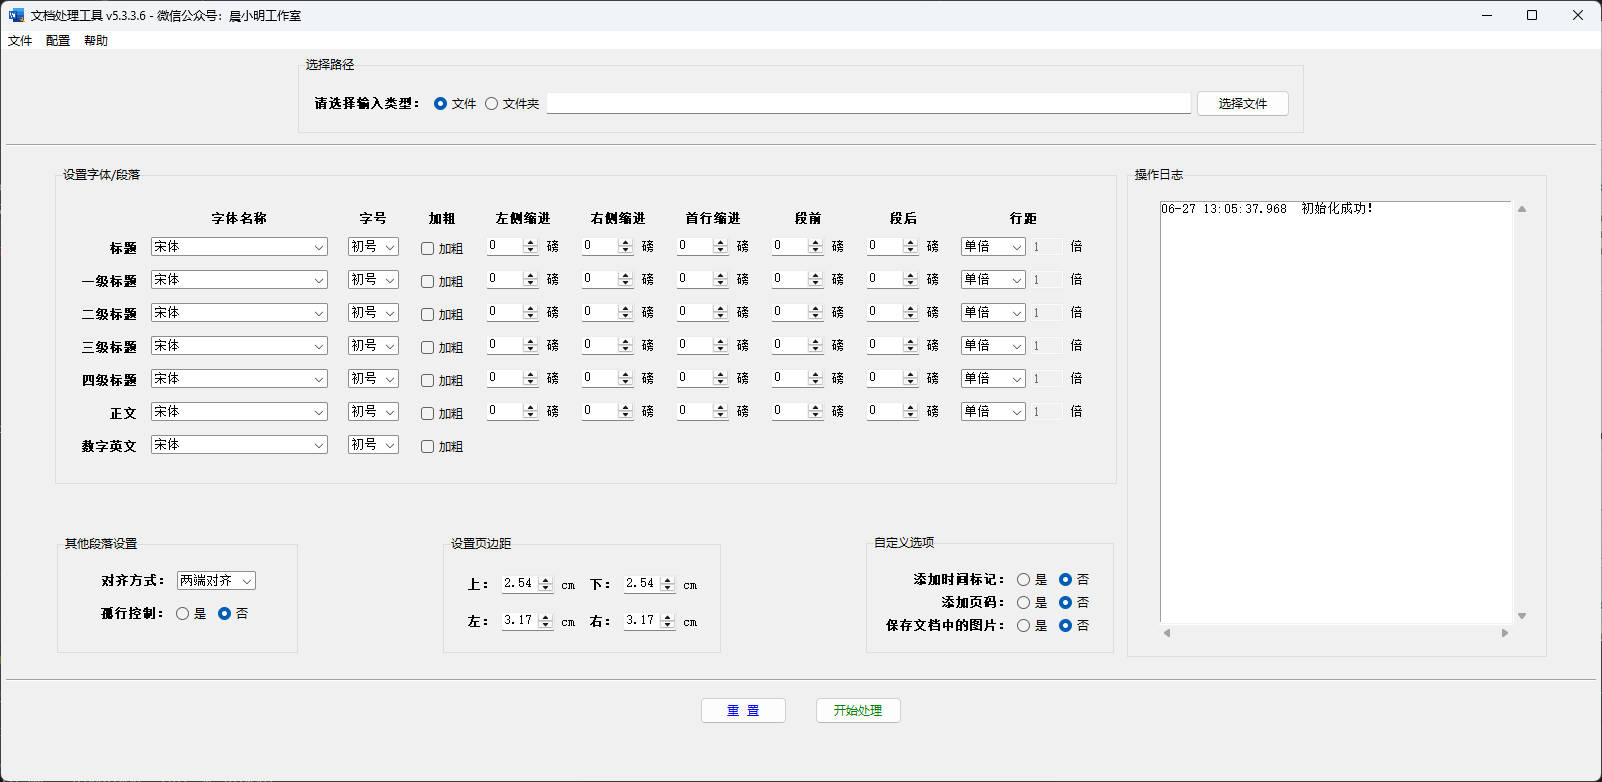
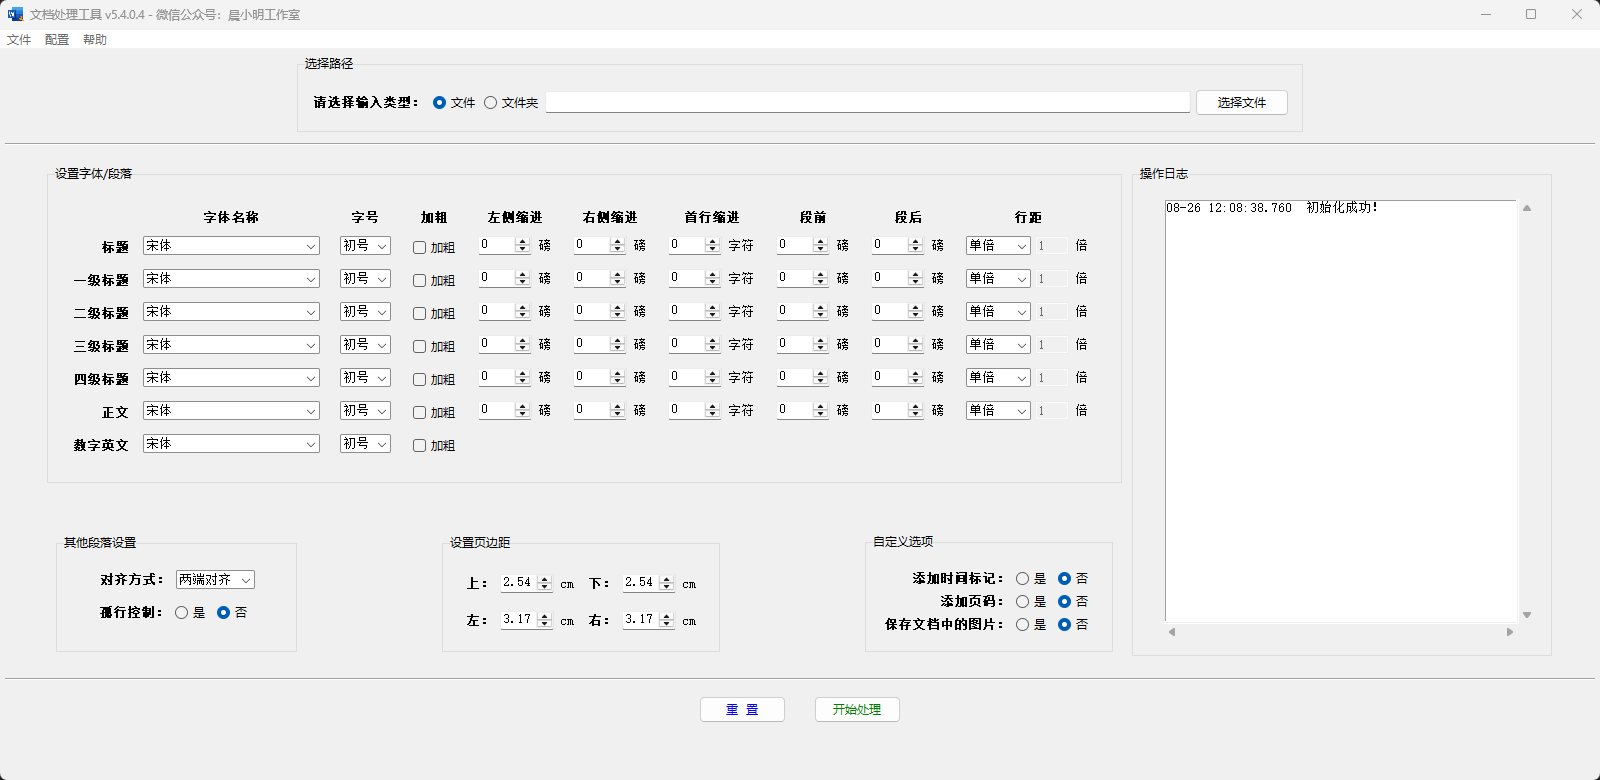
308261229 update：README.md fix_word.py version_info.json

diff --git a/fix_word.py b/fix_word.py
@@ -7,9 +7,9 @@
 
 开发作者：晨小明
 开发日期：2024/09/22
-开发版本：v5.3.3.6_Dev
-发布版本：v5.3.3.6_Release
-修改日期：2026/06/27
+开发版本：v5.4.0.4_Dev
+发布版本：v5.4.0.4_Release
+修改日期：2026/08/26
 主要功能：一、支持批量文档处理，输入文件夹路径，自动判断。
          二、读取.docx文件并设置格式；
          三、支持自定义格式设置：字体、字号、页边距、行距
@@ -31,15 +31,10 @@
          七、输出文件名称含时间点，方便标记（可选）
          （注，本程序无法处理图片格式，如果图片独立成段，本程序所用API识别到图片会被默认是空段落，为了防止图片删除，只能放弃处理空段落及图片格式）
 更新日志：
-【新增】加粗设置；
-【新增】四级标题设置及相关事件；
-【新增】各标题左侧缩进、右侧缩进、首行缩进、段前、段后、行距设置；
-【修复】更新返回值为空时，程序无响应；
-【修复】删除压缩包逻辑；
-【修复】数据校验逻辑；
-【修复】替换三级标题后的顿号为点 1、——> 1.；
-【优化】更改了界面布局；
-【优化】代码结构。
+【修复】首行缩进数值单位错误的问题；
+【修复】小三字号设置变量错误的问题；
+【修复】当文件名中有空格，处理后打开文件提示路径错误的问题；
+【优化】编号函数、重置函数的代码结构。
 """
 
 from re import sub
@@ -578,7 +573,7 @@ class Replace():
         if '）、' in p.text[:4]:
             p.text = p.text.replace('）、', '）')
         # 替换数字后的、为.
-        if p.text[:3][0].isdigit() and '、' in p.text[:3]:
+        if len(p.text) >= 3 and p.text[:3][0].isdigit() and '、' in p.text[:3]:
             p.text = p.text[:3].replace('、', '.') + p.text[3:]
         return p
 
@@ -603,6 +598,8 @@ class WithNumberDocxReader:
         for paragraph in self.docx.paragraphs:
             try:
                 number_text = self.get_number_text(paragraph._element.pPr.numPr)
+            except AttributeError as e:
+                number_text = ""
             except Exception as e:
                 writeLog(f"提示：无法获取文档编号部分：{e if e else '未知原因'}")
                 number_text = ""
@@ -1064,7 +1061,7 @@ class CreateFrame():
     def cFontFrame(self):
         """字体标题"""
 
-        def cIndentSpacingFrame(self, col):
+        def cIndentSpacingFrame(self, col, l_txt="磅"):
             """左侧缩进、右侧缩进、段前、段后布局通用"""
             spacing_frm = ttk.Frame(self.frm)
             spacing_frm.grid(row=self.row, column=col, sticky="n")
@@ -1072,7 +1069,7 @@ class CreateFrame():
             spacing_vlu.set("0")  # 初始值设置为0
             spacing_spinbox = ttk.Spinbox(spacing_frm, from_=0, to=100, increment=0.1, textvariable=spacing_vlu, width=5, font=("Ya Hei", 10), wrap=True)
             spacing_spinbox.grid(row=self.row, column=1, padx=(10, 2), pady=5)
-            ttk.Label(spacing_frm, text=self.last_txt, font=("Ya Hei", 10)).grid(row=self.row, column=2, padx=(2, 10), pady=5)  # 磅文本
+            ttk.Label(spacing_frm, text=l_txt, font=("Ya Hei", 10)).grid(row=self.row, column=2, padx=(2, 10), pady=5)  # 磅文本
             return spacing_vlu
         font_label = ttk.Label(self.frm, font=("Ya Hei", 10, "bold"), text=self.title_txt)
         font_label.grid(row=self.row, column=0, padx=2, pady=5, sticky="e")
@@ -1088,7 +1085,7 @@ class CreateFrame():
         font_size_frm.grid(row=self.row, column=2, sticky="n")
         font_size_frm_combox = ttk.Combobox(font_size_frm, width=4, font=("Ya Hei", 10))  # 字号下拉框盒子
         font_size_frm_combox.grid(row=self.row, column=1, padx=10, pady=5)
-        font_size_frm_combox['values'] = ("初号", "小初", "一号", "小一", "二号", "小二", "三号", "小三", "四号", "小四", "五号", "小五", "六号", "小六", "七号", "八号")
+        font_size_frm_combox['values'] = [i for i in FONTSIZEDICT.keys()]
         font_size_frm_combox.current(0)
         # 加粗，用复选框
         font_bold_frm = ttk.Frame(self.frm)
@@ -1104,7 +1101,7 @@ class CreateFrame():
             # 右侧缩进
             indent_right_vlu = cIndentSpacingFrame(self, 5)
             # 首行缩进
-            first_line_vlu = cIndentSpacingFrame(self, 6)
+            first_line_vlu = cIndentSpacingFrame(self, 6, "字符")
             # 段前
             spacing_b_vlu = cIndentSpacingFrame(self, 7)
             # 段后
@@ -1437,8 +1434,8 @@ class LogEvents():
     def open_folder(type):
         # 获取当前选中的条目索引和内容
         selected_index = play_history_frm_listbox.curselection()[0]  # 获取当前选中项的索引
-        selected_folder = play_history_frm_listbox.get(selected_index)  # 获取当前选中项的内容（即文件夹路径）
-        selected_ = selected_folder.split(" ")[-1]
+        selected_folder = play_history_frm_listbox.get(selected_index)  # 获取当前选中项的内容
+        selected_ = selected_folder.split("  ")[-1].split("* ")[-1]
         if path.exists(selected_):
             if type == 1:  # 打开文件
                 # 使用系统默认的文件浏览器打开文件夹
@@ -1454,8 +1451,8 @@ class LogEvents():
         # 获取选中的项
         # 获取当前选中的条目索引和内容
         selected_index = listbox.curselection()[0]  # 获取当前选中项的索引
-        selected_folder = listbox.get(selected_index)  # 获取当前选中项的内容（即文件夹路径）
-        selected_ = selected_folder.split(" ")[-1]
+        selected_folder = listbox.get(selected_index)  # 获取当前选中项的内容
+        selected_ = selected_folder.split("  ")[-1].split("* ")[-1]
         if path.exists(selected_):
             # 这里可以添加复制到剪贴板的代码，例如使用tkinter的clipboard模块
             if tk.clipboard_get():
@@ -1463,7 +1460,7 @@ class LogEvents():
             tk.clipboard_append(selected_)
             messagebox.showinfo("提示", "已复制到剪贴板！\n使用 【Ctrl+V】 粘贴即可！")
         else:
-            messagebox.showwarning("警告", "未检测到有效路径！请重试！")
+            messagebox.showwarning("警告", "未检测到有效路径！")
 
 
 def aboutTk():
@@ -1566,12 +1563,15 @@ def reSet():
         text="倍"), font_mb_ls_ent.config(state="disabled"), font_mb_spacing_b_vlu.set(0), font_mb_spacing_a_vlu.set(0), font_mb_indent_left_vlu.set(0), font_mb_indent_right_vlu.set(0), font_mb_first_line_vlu.set(0), font_mb_bold_frm_vlu.set(0)
 
     font_num_name_frm_combox.current(sorted(FONTS).index("宋体")), font_num_size_frm_combox.current(0), font_num_bold_frm_vlu.set(0)
-    if font_title_ls_frm_combox.cget("state").string == "disabled":
-        font_title_ls_frm_combox.configure(state="readonly")
-        font_title_ls_frm1_combox.configure(state="readonly")
-        font_title_ls_frm2_combox.configure(state="readonly")
-        font_title_ls_frm3_combox.configure(state="readonly")
-        font_mb_ls_frm_combox.configure(state="readonly")
+    try:
+        if font_title_ls_frm_combox.cget("state").string == "disabled":
+            font_title_ls_frm_combox.configure(state="readonly")
+            font_title_ls_frm1_combox.configure(state="readonly")
+            font_title_ls_frm2_combox.configure(state="readonly")
+            font_title_ls_frm3_combox.configure(state="readonly")
+            font_mb_ls_frm_combox.configure(state="readonly")
+    except:
+        pass
     pgp_almt_frm_combox.current(3)
     pgp_margin_t_vlu.set("2.54"), pgp_margin_b_vlu.set("2.54"), pgp_margin_l_vlu.set("3.17"), pgp_margin_r_vlu.set("3.17")
     # 修改为使用 set 方法设置值
@@ -1672,20 +1672,20 @@ def main():
 
 
 if __name__ == '__main__':
-    VERSION = "v5.3.3.6"
-    UPDATETIME = "2026年6月27日"
+    VERSION = "v5.4.0.4"
+    UPDATETIME = "2026年8月26日"
     """
         !!!!!!!!!!!!
         打包时把此路径改为相对路径，并把图片复制粘贴到打包后的根目录里
         !!!!!!!!!!!!
-        pyinstaller -D -w fix_word.py -i static/icon.ico -n fixWord_v5.3.3.6
+        pyinstaller -D -w fix_word.py -i static/icon.ico -n fixWord_v5.4.0.4
     """
     icon_path = getcwd() + "\\static\\icon.ico"
     wxgzh_path = getcwd() + "\\static\\wxgzh.jpg"
     cxm_path = getcwd() + "\\static\\cxmstudio-lignt-heng.png"
     # 配置信息start
     # 字号字典
-    FONTSIZEDICT = {"八号": 5, "七号": 5.5, "小六": 6.5, "六号": 7.5, "小五": 9, "五号": 10.5, "小四": 12, "四号": 14, "小三号": 15, "三号": 16, "小二": 18, "二号": 22, "小一": 24, "一号": 26, "小初": 36, "初号": 42}
+    FONTSIZEDICT = {"初号": 42, "小初": 36, "一号": 26, "小一": 24, "二号": 22, "小二": 18, "三号": 16, "小三": 15, "四号": 14, "小四": 12, "五号": 10.5, "小五": 9, "六号": 7.5, "小六": 6.5, "七号": 5.5, "八号": 5, "5":5, "5.5":5.5, "6.5":6.5, "7.5":7.5, "8":8, "9":9, "10":10, "10.5":10.5, "11":11, "12":12, "14":14, "16":16, "18":18, "20":20, "22":22, "24":24, "26":26, "28":28, "36":36, "48":48, "72":72}
     # 配置信息end
     # tkinter start
     tk = Tk()

diff --git a/README.md b/README.md
@@ -23,17 +23,17 @@ fixWord是一个基于python开发的Word文档修复工具，能够自动修复
 | ---- | ---- | ---- | ---- |
 | Windows10及以上版本 | 至少2GB | 至少85MB | / |
 ## 使用说明
-1. [下载地址1（推荐）](https://gitee.com/cxmStudio/fixWord/releases/download/v5.3.3.6/fixWord_v5.3.3.6.zip) [下载地址2](https://github.com/Sam-CXM/fixWord/releases/download/v5.3.3.6/fixWord_v5.3.3.6.zip)
+1. [下载地址1（推荐）](https://gitee.com/cxmStudio/fixWord/releases/download/v5.4.0.4/fixWord_v5.4.0.4.zip) [下载地址2](https://github.com/Sam-CXM/fixWord/releases/download/v5.4.0.4/fixWord_v5.4.0.4.zip)
 2. 将安装包解压到本地。
-3. 运行 `fixWord_v5.3.3.6.exe` 文件，点击**文件**选项或**文件夹**选项，或输入含有文档的**路径**。
+3. 运行 `fixWord_v5.4.0.4.exe` 文件，点击**文件**选项或**文件夹**选项，或输入含有文档的**路径**。
 4. 点击**开始处理**按钮等待处理完成即可。
 5. 处理完成后，会**提示输出路径**信息。
 ## 功能说明
 - **开发作者**：晨小明
 - **开发日期**：2024/01/04
-- **开发版本**：v5.3.3.6_Dev
-- **发布版本**：v5.3.3.6_Release
-- **修改日期**：2026/06/27
+- **开发版本**：v5.4.0.4_Dev
+- **发布版本**：v5.4.0.4_Release
+- **修改日期**：2026/08/26
 - **主要功能**：
     - 一、支持**单文件处理**或**批量文档处理**，支持自定义输入、选择文件路径或文件夹路径
     - 二、**读取.docx文件并设置格式**
@@ -64,6 +64,11 @@ fixWord是一个基于python开发的Word文档修复工具，能够自动修复
         2. 其他格式：
     - 八、输出文件名称含时间点，方便标记（可选）
 ## 更新日志：
+  - 维护日期：**2026.8.26**
+    - 【**修复**】首行缩进数值单位错误的问题；
+    - 【**修复**】小三字号设置变量错误的问题；
+    - 【**修复**】当文件名中有空格，处理后打开文件提示路径错误的问题；
+    - 【**优化**】编号函数、重置函数的代码结构。
   - 维护日期：**2026.6.27**
     - 【**新增**】加粗设置；
     - 【**新增**】四级标题设置及相关事件；
